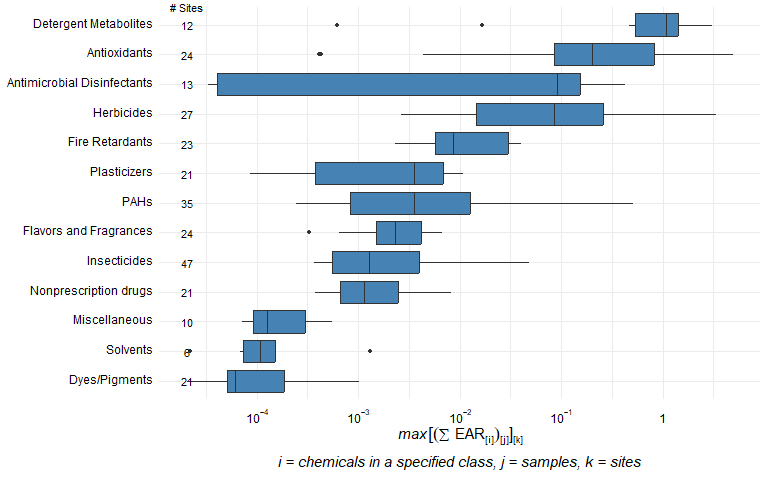
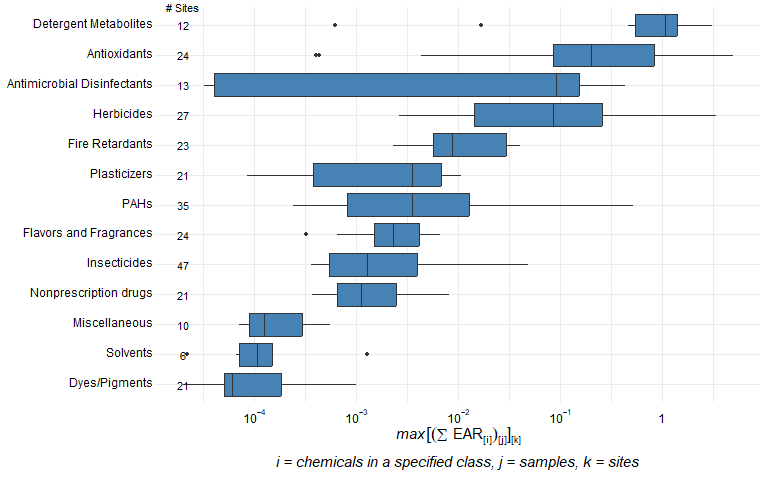
Missed some

diff --git a/pkgdown/templates/header.html b/pkgdown/templates/header.html
@@ -1,14 +1,3 @@
-<head>
-<meta charset="UTF-8">
-<title>Untitled Document</title>
-<link href="extra.css" rel="stylesheet" type="text/css" media="screen" />
-<!-- HTML5 shim and Respond.js for IE8 support of HTML5 elements and media queries -->
-	<!--[if lt IE 9]>
-    <script src="//html5shiv.googlecode.com/svn/trunk/html5.js"></script>
-   <script src="https://oss.maxcdn.com/respond/1.4.2/respond.min.js"></script>
-  <![endif]-->
- 
-
   <!-- Google Tag Manager -->
 <script>(function(w,d,s,l,i){w[l]=w[l]||[];w[l].push({'gtm.start':
 new Date().getTime(),event:'gtm.js'});var f=d.getElementsByTagName(s)[0],
@@ -16,30 +5,3 @@ j=d.createElement(s),dl=l!='dataLayer'?'&l='+l:'';j.async=true;j.src=
 'https://www.googletagmanager.com/gtm.js?id='+i+dl;f.parentNode.insertBefore(j,f);
 })(window,document,'script','dataLayer','GTM-TKQR8KP');</script>
 <!-- End Google Tag Manager -->
-   
-</head>
-
-<body> <!-- opening div for body -->
-<!-- BEGIN USGS Applications Header Template -->
-<header id="navbar" class="header-nav"  role="banner">
-  <div class="tmp-container">
-      <!-- primary navigation bar -->
-  		<!-- search bar-->
-      <<div class="header-search"> 
-       <!-- <a class="logo-header" href="https://www.usgs.gov/" title="Home">
-          <img class="img"  src="logo.png"  alt="Home" />
-        </a>-->
-        <!-- <form action="https://www.usgs.gov/science-explorer-results" method="GET" id="search-box">
-         <div class="fa-wrapper"><label for="se_search" class="only">Search</label>
-          <input id="se_search" type="search" name="es" placeholder="Search">
-          <button class="fa fa-search" type="submit">
-            <span class="only">Search</span>
-			 </button></div>
-        </form> -->
-      </div> 
-      <!-- end search bar-->
-	</div> 
-	<!-- end header-container-->
-</header>
-<!-- END USGS Applications Header Template -->
-<div id="maincontent"> <!-- opening div for your main content -->
